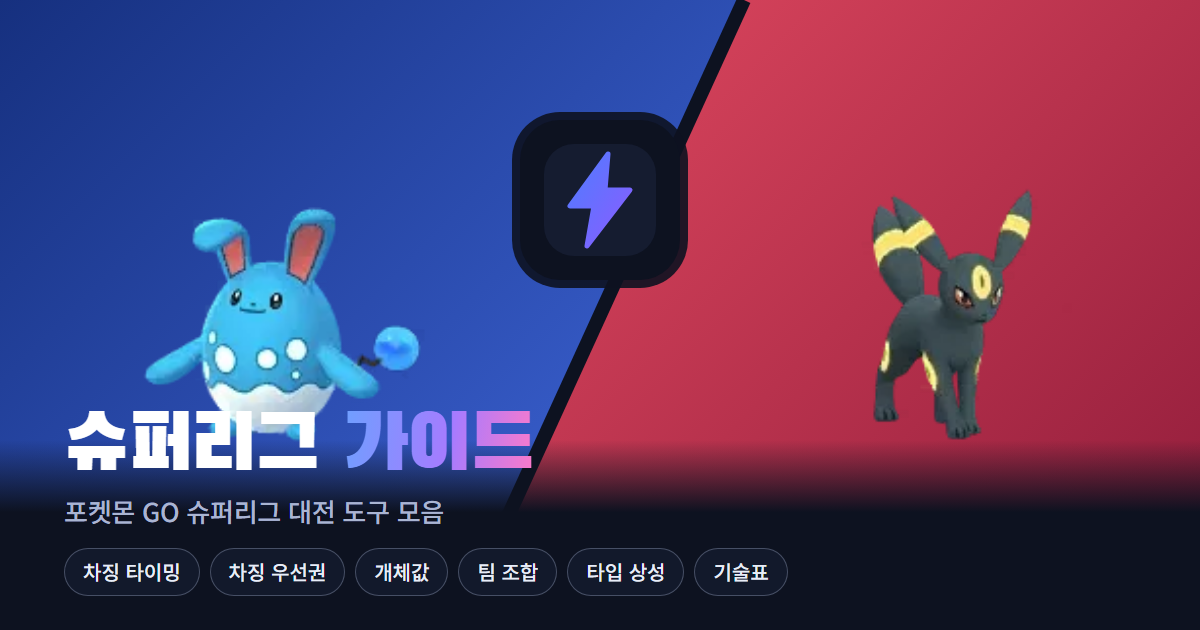
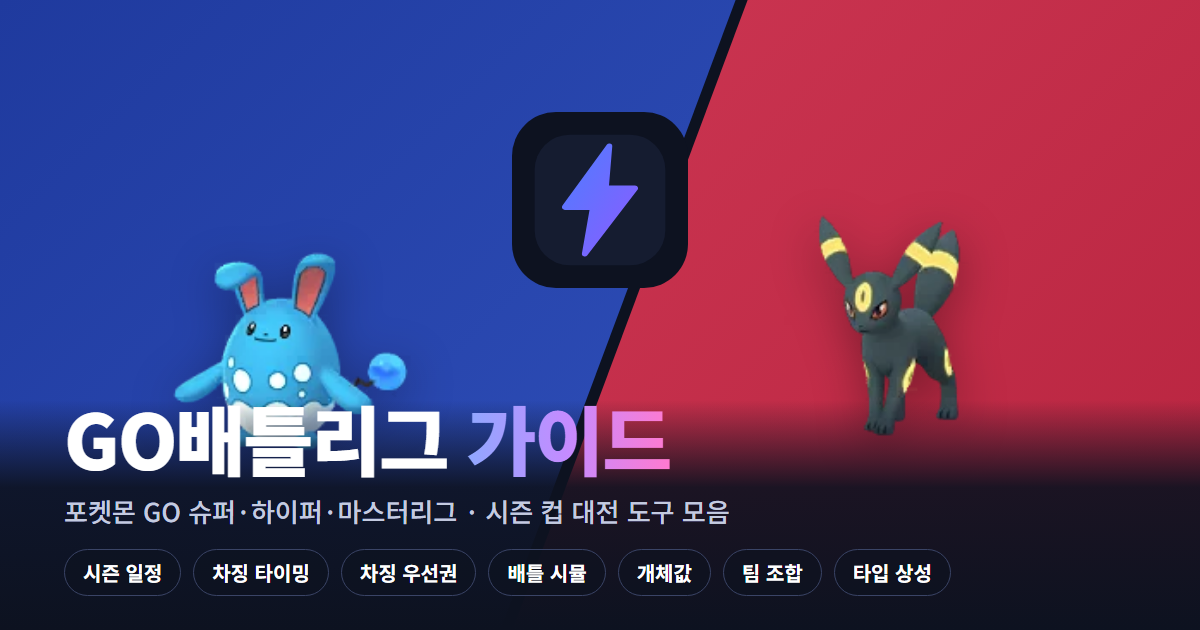
사이트 이름을 'GO배틀리그 가이드' 로 바꾼다.
- 모든 페이지 브랜드·제목(<페이지> · GO배틀리그 가이드)·설명을 리그 전체 기준으로
- 공유 미리보기 이미지를 새 이름으로 다시 만든다 (og-image.png, 캐시 무효화 v=3)
- README·skill 문서 첫머리

diff --git a/ivs.html b/ivs.html
@@ -3,13 +3,13 @@
 <head>
 <meta charset="utf-8">
 <meta name="viewport" content="width=device-width, initial-scale=1, viewport-fit=cover">
-<title>포켓몬 GO 개체값 고르기</title>
-<meta name="description" content="포켓몬 GO PvP(슈퍼·하이퍼·마스터리그·시즌 컵) 대전 도구 모음 — CCT·CMP·개체값·팀 조합·타입 상성">
+<title>개체값 고르기 · GO배틀리그 가이드</title>
+<meta name="description" content="포켓몬 GO배틀리그 가이드 — 슈퍼·하이퍼·마스터리그·시즌 컵 대전 도구 모음 — CCT·CMP·개체값·팀 조합·타입 상성">
 <meta property="og:type" content="website">
 <meta property="og:locale" content="ko_KR">
-<meta property="og:title" content="포켓몬 GO 개체값 고르기">
-<meta property="og:description" content="포켓몬 GO PvP(슈퍼·하이퍼·마스터리그·시즌 컵) 대전 도구 모음 — CCT·CMP·개체값·팀 조합·타입 상성">
-<meta property="og:image" content="https://side-pjt.github.io/pogo-side-pjt/og-image.png?v=2">
+<meta property="og:title" content="개체값 고르기 · GO배틀리그 가이드">
+<meta property="og:description" content="포켓몬 GO배틀리그 가이드 — 슈퍼·하이퍼·마스터리그·시즌 컵 대전 도구 모음 — CCT·CMP·개체값·팀 조합·타입 상성">
+<meta property="og:image" content="https://side-pjt.github.io/pogo-side-pjt/og-image.png?v=3">
 <meta property="og:image:width" content="1200">
 <meta property="og:image:height" content="630">
 <meta name="twitter:card" content="summary_large_image">
@@ -33,7 +33,7 @@
     <img class="brand-logo" src="favicon.svg" alt="" width="36" height="36">
     <img class="brand-img" src="sidebar-brand.png" alt="" width="408" height="152">
     <span class="brand-sub">포켓몬 GO</span>
-    <span class="brand-name">PvP 가이드</span>
+    <span class="brand-name">GO배틀리그 가이드</span>
     <span class="brand-page">개체값 고르기</span>
   </a>
   <nav class="nav">

diff --git a/moves.html b/moves.html
@@ -3,13 +3,13 @@
 <head>
 <meta charset="utf-8">
 <meta name="viewport" content="width=device-width, initial-scale=1, viewport-fit=cover">
-<title>포켓몬 GO 기술표</title>
-<meta name="description" content="포켓몬 GO PvP(슈퍼·하이퍼·마스터리그·시즌 컵) 대전 도구 모음 — CCT·CMP·개체값·팀 조합·타입 상성·기술표">
+<title>기술표 · GO배틀리그 가이드</title>
+<meta name="description" content="포켓몬 GO배틀리그 가이드 — 슈퍼·하이퍼·마스터리그·시즌 컵 대전 도구 모음 — CCT·CMP·개체값·팀 조합·타입 상성·기술표">
 <meta property="og:type" content="website">
 <meta property="og:locale" content="ko_KR">
-<meta property="og:title" content="포켓몬 GO 기술표">
-<meta property="og:description" content="포켓몬 GO PvP(슈퍼·하이퍼·마스터리그·시즌 컵) 대전 도구 모음 — CCT·CMP·개체값·팀 조합·타입 상성·기술표">
-<meta property="og:image" content="https://side-pjt.github.io/pogo-side-pjt/og-image.png?v=2">
+<meta property="og:title" content="기술표 · GO배틀리그 가이드">
+<meta property="og:description" content="포켓몬 GO배틀리그 가이드 — 슈퍼·하이퍼·마스터리그·시즌 컵 대전 도구 모음 — CCT·CMP·개체값·팀 조합·타입 상성·기술표">
+<meta property="og:image" content="https://side-pjt.github.io/pogo-side-pjt/og-image.png?v=3">
 <meta property="og:image:width" content="1200">
 <meta property="og:image:height" content="630">
 <meta name="twitter:card" content="summary_large_image">
@@ -33,7 +33,7 @@
     <img class="brand-logo" src="favicon.svg" alt="" width="36" height="36">
     <img class="brand-img" src="sidebar-brand.png" alt="" width="408" height="152">
     <span class="brand-sub">포켓몬 GO</span>
-    <span class="brand-name">PvP 가이드</span>
+    <span class="brand-name">GO배틀리그 가이드</span>
     <span class="brand-page">기술표</span>
   </a>
   <nav class="nav">

diff --git a/team.html b/team.html
@@ -3,13 +3,13 @@
 <head>
 <meta charset="utf-8">
 <meta name="viewport" content="width=device-width, initial-scale=1, viewport-fit=cover">
-<title>포켓몬 GO 팀 조합 유형</title>
-<meta name="description" content="포켓몬 GO PvP(슈퍼·하이퍼·마스터리그·시즌 컵) 대전 도구 모음 — CCT·CMP·개체값·팀 조합·타입 상성">
+<title>팀 조합 유형 · GO배틀리그 가이드</title>
+<meta name="description" content="포켓몬 GO배틀리그 가이드 — 슈퍼·하이퍼·마스터리그·시즌 컵 대전 도구 모음 — CCT·CMP·개체값·팀 조합·타입 상성">
 <meta property="og:type" content="website">
 <meta property="og:locale" content="ko_KR">
-<meta property="og:title" content="포켓몬 GO 팀 조합 유형">
-<meta property="og:description" content="포켓몬 GO PvP(슈퍼·하이퍼·마스터리그·시즌 컵) 대전 도구 모음 — CCT·CMP·개체값·팀 조합·타입 상성">
-<meta property="og:image" content="https://side-pjt.github.io/pogo-side-pjt/og-image.png?v=2">
+<meta property="og:title" content="팀 조합 유형 · GO배틀리그 가이드">
+<meta property="og:description" content="포켓몬 GO배틀리그 가이드 — 슈퍼·하이퍼·마스터리그·시즌 컵 대전 도구 모음 — CCT·CMP·개체값·팀 조합·타입 상성">
+<meta property="og:image" content="https://side-pjt.github.io/pogo-side-pjt/og-image.png?v=3">
 <meta property="og:image:width" content="1200">
 <meta property="og:image:height" content="630">
 <meta name="twitter:card" content="summary_large_image">
@@ -33,7 +33,7 @@
     <img class="brand-logo" src="favicon.svg" alt="" width="36" height="36">
     <img class="brand-img" src="sidebar-brand.png" alt="" width="408" height="152">
     <span class="brand-sub">포켓몬 GO</span>
-    <span class="brand-name">PvP 가이드</span>
+    <span class="brand-name">GO배틀리그 가이드</span>
     <span class="brand-page">팀 조합 유형</span>
   </a>
   <nav class="nav">

diff --git a/types.html b/types.html
@@ -3,13 +3,13 @@
 <head>
 <meta charset="utf-8">
 <meta name="viewport" content="width=device-width, initial-scale=1, viewport-fit=cover">
-<title>포켓몬 GO 타입 상성</title>
-<meta name="description" content="포켓몬 GO PvP(슈퍼·하이퍼·마스터리그·시즌 컵) 대전 도구 모음 — CCT·CMP·개체값·팀 조합·타입 상성">
+<title>타입 상성 · GO배틀리그 가이드</title>
+<meta name="description" content="포켓몬 GO배틀리그 가이드 — 슈퍼·하이퍼·마스터리그·시즌 컵 대전 도구 모음 — CCT·CMP·개체값·팀 조합·타입 상성">
 <meta property="og:type" content="website">
 <meta property="og:locale" content="ko_KR">
-<meta property="og:title" content="포켓몬 GO 타입 상성">
-<meta property="og:description" content="포켓몬 GO PvP(슈퍼·하이퍼·마스터리그·시즌 컵) 대전 도구 모음 — CCT·CMP·개체값·팀 조합·타입 상성">
-<meta property="og:image" content="https://side-pjt.github.io/pogo-side-pjt/og-image.png?v=2">
+<meta property="og:title" content="타입 상성 · GO배틀리그 가이드">
+<meta property="og:description" content="포켓몬 GO배틀리그 가이드 — 슈퍼·하이퍼·마스터리그·시즌 컵 대전 도구 모음 — CCT·CMP·개체값·팀 조합·타입 상성">
+<meta property="og:image" content="https://side-pjt.github.io/pogo-side-pjt/og-image.png?v=3">
 <meta property="og:image:width" content="1200">
 <meta property="og:image:height" content="630">
 <meta name="twitter:card" content="summary_large_image">
@@ -33,7 +33,7 @@
     <img class="brand-logo" src="favicon.svg" alt="" width="36" height="36">
     <img class="brand-img" src="sidebar-brand.png" alt="" width="408" height="152">
     <span class="brand-sub">포켓몬 GO</span>
-    <span class="brand-name">PvP 가이드</span>
+    <span class="brand-name">GO배틀리그 가이드</span>
     <span class="brand-page">타입 상성</span>
   </a>
   <nav class="nav">

diff --git a/battle.html b/battle.html
@@ -3,13 +3,13 @@
 <head>
 <meta charset="utf-8">
 <meta name="viewport" content="width=device-width, initial-scale=1, viewport-fit=cover">
-<title>포켓몬 GO 배틀 시뮬레이터</title>
+<title>배틀 시뮬레이터 · GO배틀리그 가이드</title>
 <meta name="description" content="포켓몬 GO 슈퍼·하이퍼·마스터리그 1대1, Multi, Matrix 배틀 시뮬레이터">
 <meta property="og:type" content="website">
 <meta property="og:locale" content="ko_KR">
-<meta property="og:title" content="포켓몬 GO 배틀 시뮬레이터">
+<meta property="og:title" content="배틀 시뮬레이터 · GO배틀리그 가이드">
 <meta property="og:description" content="포켓몬과 기술, 실드를 골라 턴별 배틀 결과를 확인한다">
-<meta property="og:image" content="https://side-pjt.github.io/pogo-side-pjt/og-image.png?v=2">
+<meta property="og:image" content="https://side-pjt.github.io/pogo-side-pjt/og-image.png?v=3">
 <meta name="theme-color" content="#0a0613">
 <link rel="icon" href="favicon.svg" type="image/svg+xml">
 <link rel="stylesheet" href="https://fonts.googleapis.com/css2?family=Chakra+Petch:wght@500;700&family=Noto+Sans+KR:wght@400;500;700&display=swap">
@@ -23,7 +23,7 @@
     <img class="brand-logo" src="favicon.svg" alt="" width="36" height="36">
     <img class="brand-img" src="sidebar-brand.png" alt="" width="408" height="152">
     <span class="brand-sub">포켓몬 GO</span>
-    <span class="brand-name">배틀 가이드</span>
+    <span class="brand-name">GO배틀리그 가이드</span>
     <span class="brand-page">배틀 시뮬레이터</span>
   </a>
   <nav class="nav">

diff --git a/season.html b/season.html
@@ -3,13 +3,13 @@
 <head>
 <meta charset="utf-8">
 <meta name="viewport" content="width=device-width, initial-scale=1, viewport-fit=cover">
-<title>포켓몬 GO 배틀리그 시즌 일정</title>
+<title>시즌 일정 · GO배틀리그 가이드</title>
 <meta name="description" content="포켓몬 GO 배틀리그 이번 주 열린 리그·컵과 시즌 주차별 일정 — 출전 조건과 상위 포켓몬">
 <meta property="og:type" content="website">
 <meta property="og:locale" content="ko_KR">
-<meta property="og:title" content="포켓몬 GO 배틀리그 시즌 일정">
+<meta property="og:title" content="시즌 일정 · GO배틀리그 가이드">
 <meta property="og:description" content="포켓몬 GO 배틀리그 이번 주 열린 리그·컵과 시즌 주차별 일정 — 출전 조건과 상위 포켓몬">
-<meta property="og:image" content="https://side-pjt.github.io/pogo-side-pjt/og-image.png?v=2">
+<meta property="og:image" content="https://side-pjt.github.io/pogo-side-pjt/og-image.png?v=3">
 <meta property="og:image:width" content="1200">
 <meta property="og:image:height" content="630">
 <meta name="twitter:card" content="summary_large_image">
@@ -33,7 +33,7 @@
     <img class="brand-logo" src="favicon.svg" alt="" width="36" height="36">
     <img class="brand-img" src="sidebar-brand.png" alt="" width="408" height="152">
     <span class="brand-sub">포켓몬 GO</span>
-    <span class="brand-name">PvP 가이드</span>
+    <span class="brand-name">GO배틀리그 가이드</span>
     <span class="brand-page">시즌 일정</span>
   </a>
   <nav class="nav">

diff --git a/index.html b/index.html
@@ -3,13 +3,13 @@
 <head>
 <meta charset="utf-8">
 <meta name="viewport" content="width=device-width, initial-scale=1, viewport-fit=cover">
-<title>포켓몬 GO CCT 계산기</title>
+<title>CCT 계산기 · GO배틀리그 가이드</title>
 <meta name="description" content="상대 일반기술의 마지막 턴에 차징기를 입력해 공짜 턴을 최소화한다">
 <meta property="og:type" content="website">
 <meta property="og:locale" content="ko_KR">
-<meta property="og:title" content="포켓몬 GO CCT 계산기">
+<meta property="og:title" content="CCT 계산기 · GO배틀리그 가이드">
 <meta property="og:description" content="상대 일반기술의 마지막 턴에 차징기를 입력해 공짜 턴을 최소화한다">
-<meta property="og:image" content="https://side-pjt.github.io/pogo-side-pjt/og-image.png?v=2">
+<meta property="og:image" content="https://side-pjt.github.io/pogo-side-pjt/og-image.png?v=3">
 <meta property="og:image:width" content="1200">
 <meta property="og:image:height" content="630">
 <meta name="twitter:card" content="summary_large_image">
@@ -33,7 +33,7 @@
     <img class="brand-logo" src="favicon.svg" alt="" width="36" height="36">
     <img class="brand-img" src="sidebar-brand.png" alt="" width="408" height="152">
     <span class="brand-sub">포켓몬 GO</span>
-    <span class="brand-name">PvP 가이드</span>
+    <span class="brand-name">GO배틀리그 가이드</span>
     <span class="brand-page">CCT 계산기</span>
   </a>
   <nav class="nav">

diff --git a/cmp.html b/cmp.html
@@ -3,13 +3,13 @@
 <head>
 <meta charset="utf-8">
 <meta name="viewport" content="width=device-width, initial-scale=1, viewport-fit=cover">
-<title>포켓몬 GO CMP 계산기</title>
+<title>CMP 계산기 · GO배틀리그 가이드</title>
 <meta name="description" content="같은 턴에 차징기를 쓰면 공격 실수치가 높은 쪽이 먼저 나간다">
 <meta property="og:type" content="website">
 <meta property="og:locale" content="ko_KR">
-<meta property="og:title" content="포켓몬 GO CMP 계산기">
+<meta property="og:title" content="CMP 계산기 · GO배틀리그 가이드">
 <meta property="og:description" content="같은 턴에 차징기를 쓰면 공격 실수치가 높은 쪽이 먼저 나간다">
-<meta property="og:image" content="https://side-pjt.github.io/pogo-side-pjt/og-image.png?v=2">
+<meta property="og:image" content="https://side-pjt.github.io/pogo-side-pjt/og-image.png?v=3">
 <meta property="og:image:width" content="1200">
 <meta property="og:image:height" content="630">
 <meta name="twitter:card" content="summary_large_image">
@@ -33,7 +33,7 @@
     <img class="brand-logo" src="favicon.svg" alt="" width="36" height="36">
     <img class="brand-img" src="sidebar-brand.png" alt="" width="408" height="152">
     <span class="brand-sub">포켓몬 GO</span>
-    <span class="brand-name">PvP 가이드</span>
+    <span class="brand-name">GO배틀리그 가이드</span>
     <span class="brand-page">CMP 계산기</span>
   </a>
   <nav class="nav">

diff --git a/pogo-cct-tool/.claude/skills/pogo-cct-tool/SKILL.md b/pogo-cct-tool/.claude/skills/pogo-cct-tool/SKILL.md
@@ -4,7 +4,7 @@ description: 포켓몬 GO PvP(모든 리그·컵) CCT·CMP·배틀 계산기 웹
 ---
 > **위치 안내** — GitHub Pages 배포를 위해 웹 파일(`index.html`·`*.js`·`style.css`·`data/`·`images/`)은 **저장소 루트**로 옮겼다. 이 폴더에는 `scripts/build_data.py`와 문서만 남는다. 아래 경로는 루트 기준으로 읽을 것. 빌드는 저장소 루트에서 `python pogo-cct-tool/scripts/build_data.py`.
 
-# 포켓몬 GO PvP 계산기 모음
+# GO배틀리그 가이드 (포켓몬 GO PvP 계산기 모음)
 
 페이지 다섯. 전부 같은 껍데기와 `common.js` 를 공유한다.
 

diff --git a/README.md b/README.md
@@ -1,6 +1,6 @@
 # pogo-side-pjt
 
-포켓몬 GO PvP CCT 계산기와 배틀 시뮬레이터, 그 데이터를 모으는 수집기들.
+**GO배틀리그 가이드** — 포켓몬 GO 슈퍼·하이퍼·마스터리그와 시즌 컵을 위한 CCT·CMP 계산기, 배틀 시뮬레이터, 시즌 일정, 그리고 그 데이터를 모으는 수집기들.
 
 **CCT** = Charged move Count Timing. 상대 일반기술의 마지막 턴에 차징기를 입력해
 상대에게 주는 ‘공짜 턴’을 최소화하는 기술이다. 1턴 = 0.5초.
